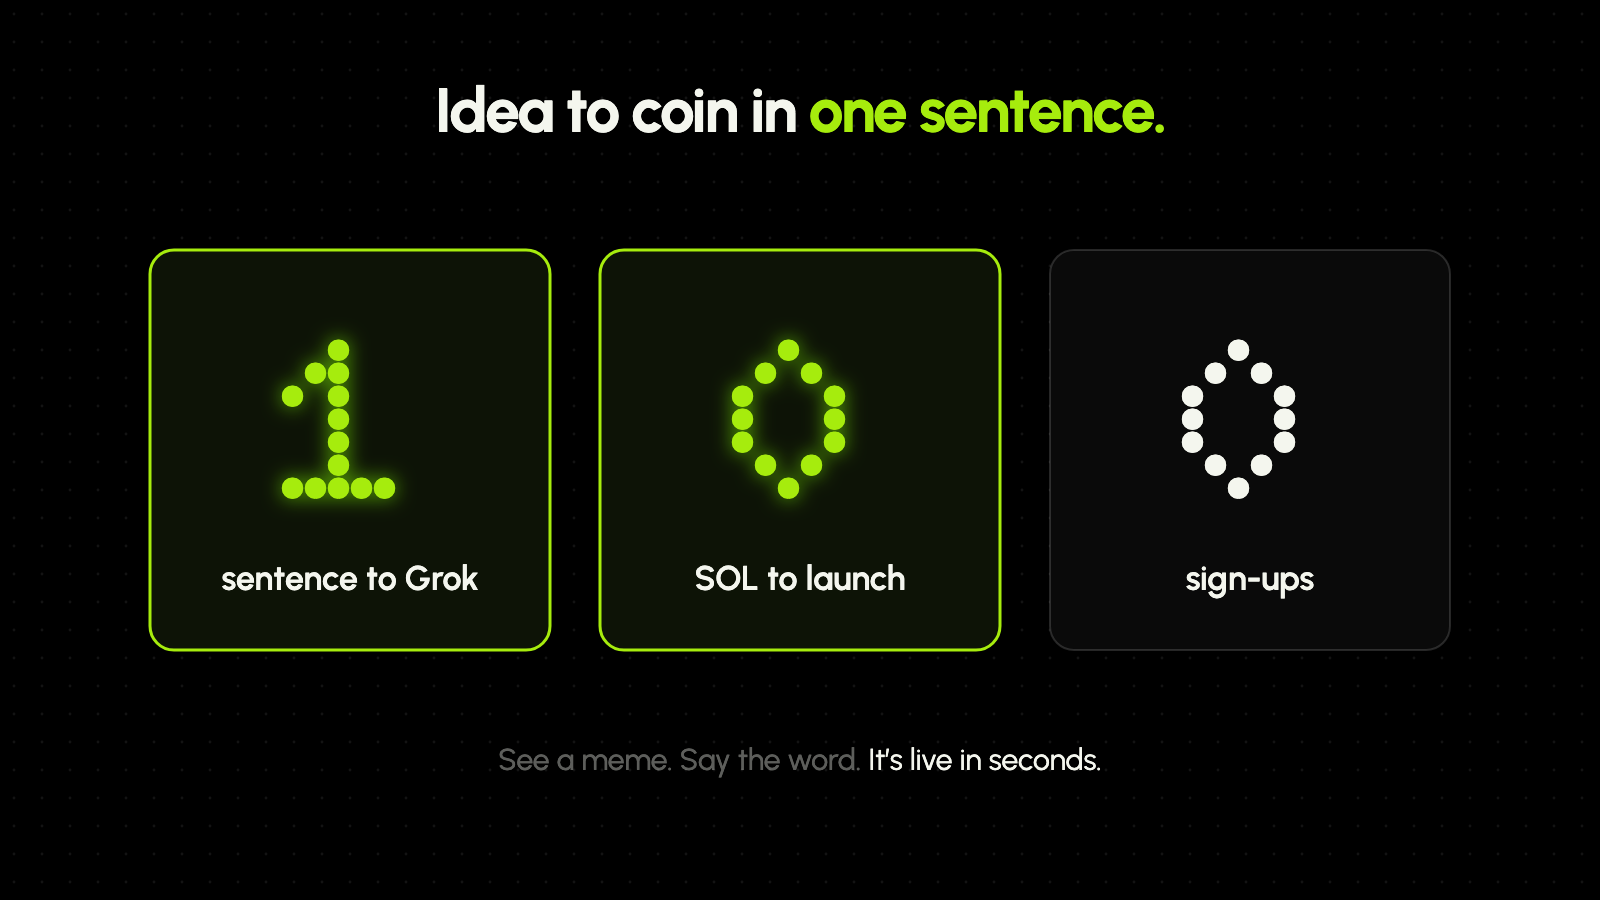
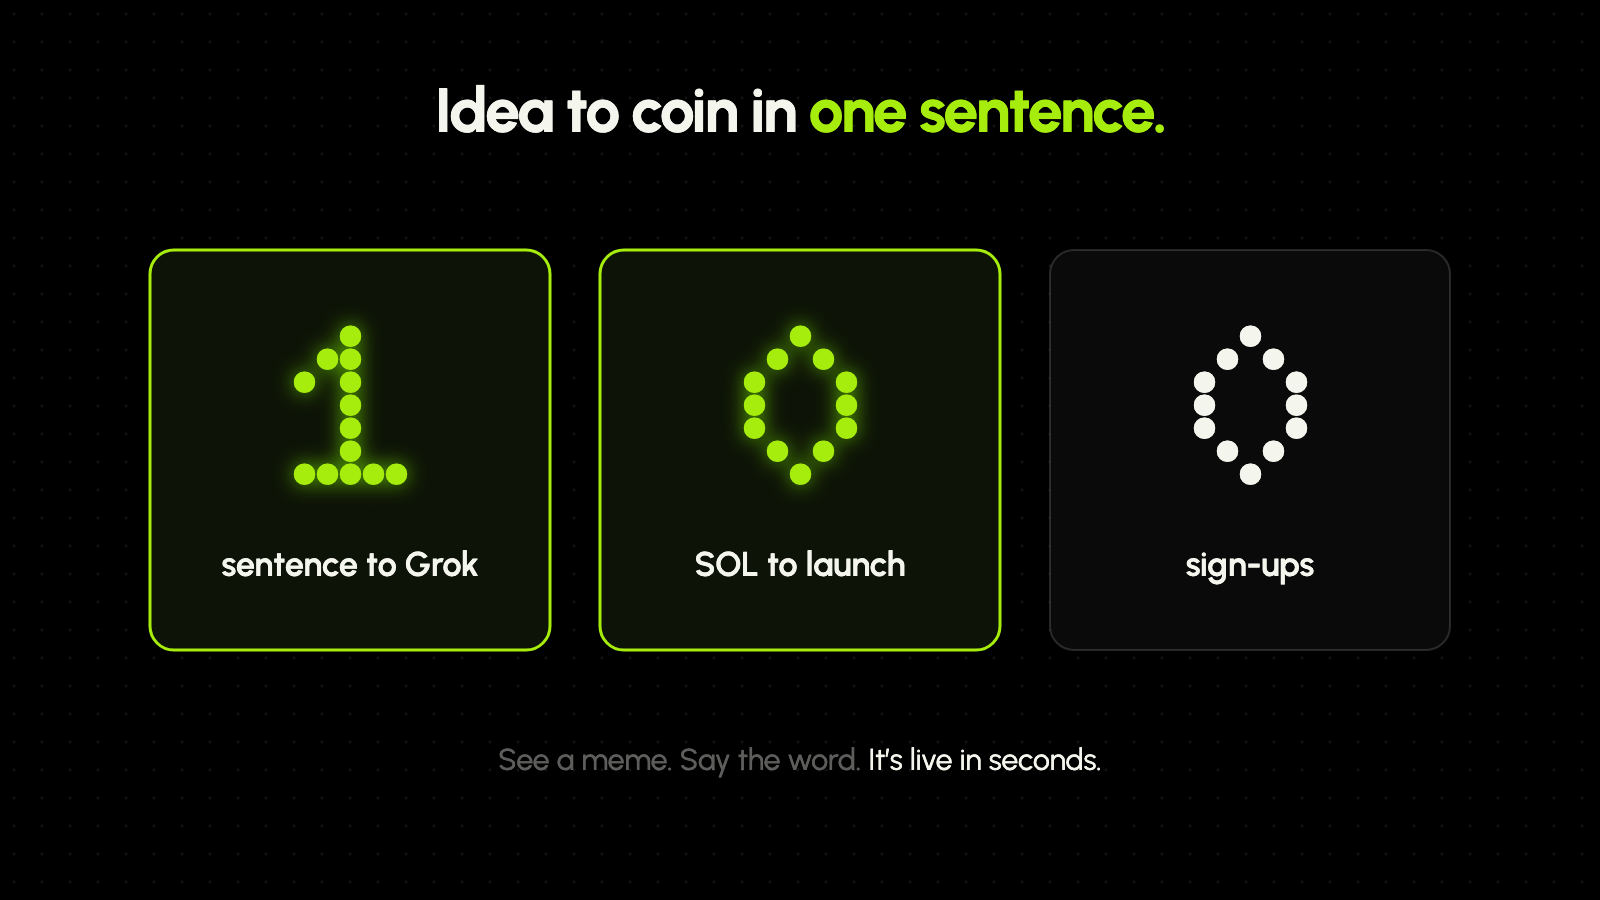
fix: centre the LED digits in the Grokpad article
Doto leaves empty space right of each glyph, so middle-anchored digits sat 12px left of their tiles.

diff --git a/kits/grokpad/art/02-setup.html b/kits/grokpad/art/02-setup.html
@@ -22,4 +22,4 @@ svg{display:block}
 </style></head><body><svg width="1600" height="900" viewBox="0 0 1600 900"><defs>
 <radialGradient id="glow" cx="0.5" cy="0.5" r="0.5"><stop offset="0" stop-color="#5aab04" stop-opacity="0.22"/><stop offset="1" stop-color="#a6ec0d" stop-opacity="0"/></radialGradient>
 <pattern id="dots" width="28" height="28" patternUnits="userSpaceOnUse"><circle cx="14" cy="14" r="1.4" fill="#ffffff" fill-opacity="0.075"/></pattern>
-</defs><rect width="1600" height="900" fill="url(#dots)"/><text class="disp" x="800" y="132" font-size="62" text-anchor="middle">One tap. <tspan class="lime">You’re in.</tspan></text><path class="dash" d="M475 450H625"/><path class="dash" d="M975 450H1125"/><rect x="125" y="300" width="350" height="300" rx="20" class="panel"/><rect x="175" y="410" width="250" height="80" rx="16" fill="#f4f6ee"/><text class="txt" x="300" y="462" font-size="28" font-weight="600" text-anchor="middle" style="fill:#000000">Get my Grok link</text><rect x="625" y="300" width="350" height="300" rx="20" class="panel"/><image href="logo.png" x="665.0" y="385.0" width="110" height="110"/><path class="wire" d="M780 440H830"/><text class="disp" x="890" y="456" font-size="46" text-anchor="middle">grok</text><text class="mono lime" x="800" y="548" font-size="22" text-anchor="middle">● connected</text><rect x="1125" y="300" width="350" height="300" rx="20" class="panel-lit"/><text class="led lime glow" x="1300" y="480" font-size="84" text-anchor="middle">FREE</text><text class="txt" x="300" y="678" font-size="36" font-weight="600" text-anchor="middle">Grab your link</text><text class="muted" x="300" y="724" font-size="27" text-anchor="middle">one tap, no sign-up</text><text class="txt" x="800" y="678" font-size="36" font-weight="600" text-anchor="middle">Add it to Grok</text><text class="muted" x="800" y="724" font-size="27" text-anchor="middle">done, that’s the setup</text><text class="txt" x="1300" y="678" font-size="36" font-weight="600" text-anchor="middle">Launch free</text><text class="muted" x="1300" y="724" font-size="27" text-anchor="middle">no deposit, ever</text></svg></body></html>
+</defs><rect width="1600" height="900" fill="url(#dots)"/><text class="disp" x="800" y="132" font-size="62" text-anchor="middle">One tap. <tspan class="lime">You’re in.</tspan></text><path class="dash" d="M475 450H625"/><path class="dash" d="M975 450H1125"/><rect x="125" y="300" width="350" height="300" rx="20" class="panel"/><rect x="175" y="410" width="250" height="80" rx="16" fill="#f4f6ee"/><text class="txt" x="300" y="462" font-size="28" font-weight="600" text-anchor="middle" style="fill:#000000">Get my Grok link</text><rect x="625" y="300" width="350" height="300" rx="20" class="panel"/><image href="logo.png" x="665.0" y="385.0" width="110" height="110"/><path class="wire" d="M780 440H830"/><text class="disp" x="890" y="456" font-size="46" text-anchor="middle">grok</text><text class="mono lime" x="800" y="548" font-size="22" text-anchor="middle">● connected</text><rect x="1125" y="300" width="350" height="300" rx="20" class="panel-lit"/><text class="led lime glow" x="1304" y="480" font-size="84" text-anchor="middle">FREE</text><text class="txt" x="300" y="678" font-size="36" font-weight="600" text-anchor="middle">Grab your link</text><text class="muted" x="300" y="724" font-size="27" text-anchor="middle">one tap, no sign-up</text><text class="txt" x="800" y="678" font-size="36" font-weight="600" text-anchor="middle">Add it to Grok</text><text class="muted" x="800" y="724" font-size="27" text-anchor="middle">done, that’s the setup</text><text class="txt" x="1300" y="678" font-size="36" font-weight="600" text-anchor="middle">Launch free</text><text class="muted" x="1300" y="724" font-size="27" text-anchor="middle">nothing to deposit</text></svg></body></html>

diff --git a/kits/grokpad/art/04-sentence.html b/kits/grokpad/art/04-sentence.html
@@ -22,4 +22,4 @@ svg{display:block}
 </style></head><body><svg width="1600" height="900" viewBox="0 0 1600 900"><defs>
 <radialGradient id="glow" cx="0.5" cy="0.5" r="0.5"><stop offset="0" stop-color="#5aab04" stop-opacity="0.22"/><stop offset="1" stop-color="#a6ec0d" stop-opacity="0"/></radialGradient>
 <pattern id="dots" width="28" height="28" patternUnits="userSpaceOnUse"><circle cx="14" cy="14" r="1.4" fill="#ffffff" fill-opacity="0.075"/></pattern>
-</defs><rect width="1600" height="900" fill="url(#dots)"/><text class="disp" x="800" y="132" font-size="62" text-anchor="middle">Idea to coin in <tspan class="lime">one sentence.</tspan></text><rect x="150.0" y="250" width="400" height="400" rx="24" class="panel-lit"/><text class="led lime glow" x="350.0" y="500" font-size="230" text-anchor="middle">1</text><text class="txt" x="350.0" y="590" font-size="34" font-weight="600" text-anchor="middle">sentence to Grok</text><rect x="600.0" y="250" width="400" height="400" rx="24" class="panel-lit"/><text class="led lime glow" x="800.0" y="500" font-size="230" text-anchor="middle">0</text><text class="txt" x="800.0" y="590" font-size="34" font-weight="600" text-anchor="middle">SOL to launch</text><rect x="1050.0" y="250" width="400" height="400" rx="24" class="panel"/><text class="led" x="1250.0" y="500" font-size="230" text-anchor="middle">0</text><text class="txt" x="1250.0" y="590" font-size="34" font-weight="600" text-anchor="middle">sign-ups</text><text class="dim" x="800" y="770" font-size="30" text-anchor="middle">See a meme. Say the word. <tspan style="fill:#f4f6ee">It’s live in seconds.</tspan></text></svg></body></html>
+</defs><rect width="1600" height="900" fill="url(#dots)"/><text class="disp" x="800" y="132" font-size="62" text-anchor="middle">Idea to coin in <tspan class="lime">one sentence.</tspan></text><rect x="150.0" y="250" width="400" height="400" rx="24" class="panel-lit"/><text class="led lime glow" x="362.0" y="486" font-size="230" text-anchor="middle">1</text><text class="txt" x="350.0" y="576" font-size="34" font-weight="600" text-anchor="middle">sentence to Grok</text><rect x="600.0" y="250" width="400" height="400" rx="24" class="panel-lit"/><text class="led lime glow" x="812.0" y="486" font-size="230" text-anchor="middle">0</text><text class="txt" x="800.0" y="576" font-size="34" font-weight="600" text-anchor="middle">SOL to launch</text><rect x="1050.0" y="250" width="400" height="400" rx="24" class="panel"/><text class="led" x="1262.0" y="486" font-size="230" text-anchor="middle">0</text><text class="txt" x="1250.0" y="576" font-size="34" font-weight="600" text-anchor="middle">sign-ups</text><text class="dim" x="800" y="770" font-size="30" text-anchor="middle">See a meme. Say the word. <tspan style="fill:#f4f6ee">It’s live in seconds.</tspan></text></svg></body></html>

diff --git a/kits/grokpad/art/gen.py b/kits/grokpad/art/gen.py
@@ -80,8 +80,8 @@ b.append(f'<text class="disp" x="{xs[1] + 90}" y="{cy + 6}" font-size="46" text-
 b.append(f'<text class="mono lime" x="{xs[1]}" y="{cy + 98}" font-size="22" text-anchor="middle">● connected</text>')
 # 3: free
 b.append(panel(xs[2] - 175, cy - 150, 350, 300, lit=True))
-b.append(f'<text class="led lime glow" x="{xs[2]}" y="{cy + 30}" font-size="84" text-anchor="middle">FREE</text>')
-steps = [('Grab your link', 'one tap, no sign-up'), ('Add it to Grok', 'done, that’s the setup'), ('Launch free', 'no deposit, ever')]
+b.append(f'<text class="led lime glow" x="{xs[2] + 4}" y="{cy + 30}" font-size="84" text-anchor="middle">FREE</text>')
+steps = [('Grab your link', 'one tap, no sign-up'), ('Add it to Grok', 'done, that’s the setup'), ('Launch free', 'nothing to deposit')]
 for x, (a, c) in zip(xs, steps):
     b.append(f'<text class="txt" x="{x}" y="{cy + 228}" font-size="36" font-weight="600" text-anchor="middle">{a}</text>')
     b.append(f'<text class="muted" x="{x}" y="{cy + 274}" font-size="27" text-anchor="middle">{c}</text>')
@@ -119,8 +119,9 @@ for i, (n, label, lit) in enumerate(tiles):
     x = x0 + i * (tw + gap)
     b.append(panel(x, ty, tw, th, 24, lit=lit))
     cls = 'led lime glow' if lit else 'led'
-    b.append(f'<text class="{cls}" x="{x + tw / 2}" y="{ty + 250}" font-size="230" text-anchor="middle">{n}</text>')
-    b.append(f'<text class="txt" x="{x + tw / 2}" y="{ty + 340}" font-size="34" font-weight="600" text-anchor="middle">{label}</text>')
+    # Doto leaves empty space right of each digit, so a middle anchor sits the dots 12px left of centre.
+    b.append(f'<text class="{cls}" x="{x + tw / 2 + 12}" y="{ty + 236}" font-size="230" text-anchor="middle">{n}</text>')
+    b.append(f'<text class="txt" x="{x + tw / 2}" y="{ty + 326}" font-size="34" font-weight="600" text-anchor="middle">{label}</text>')
 b.append('<text class="dim" x="800" y="770" font-size="30" text-anchor="middle">See a meme. Say the word. <tspan style="fill:#f4f6ee">It’s live in seconds.</tspan></text>')
 page('04-sentence.html', 1600, 900, b)
 
